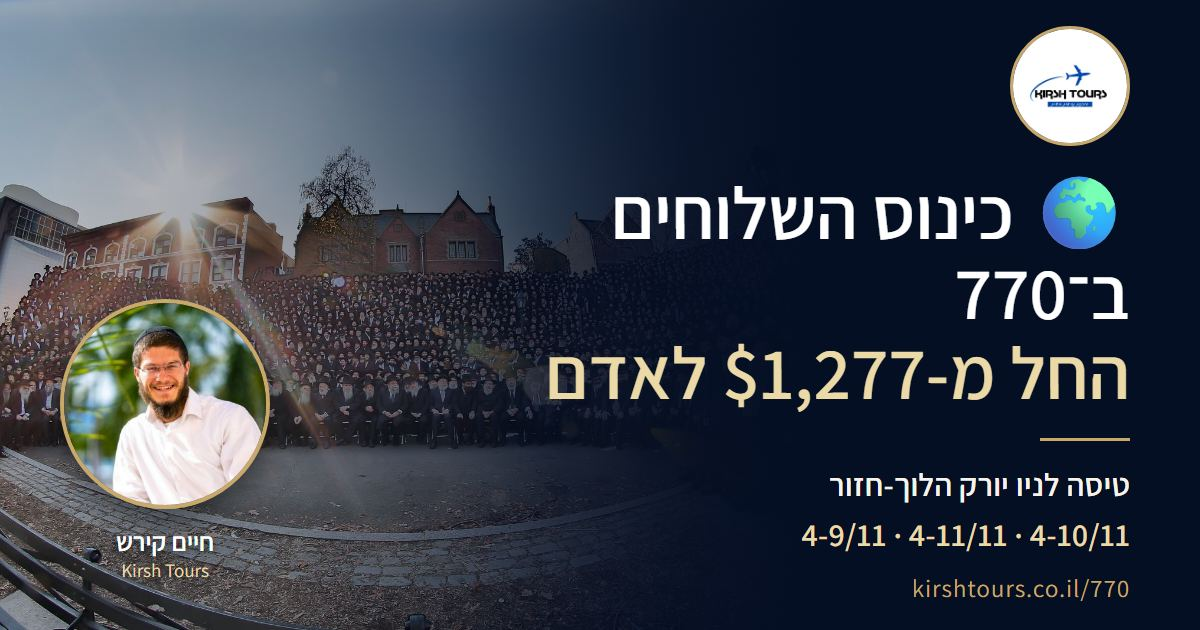
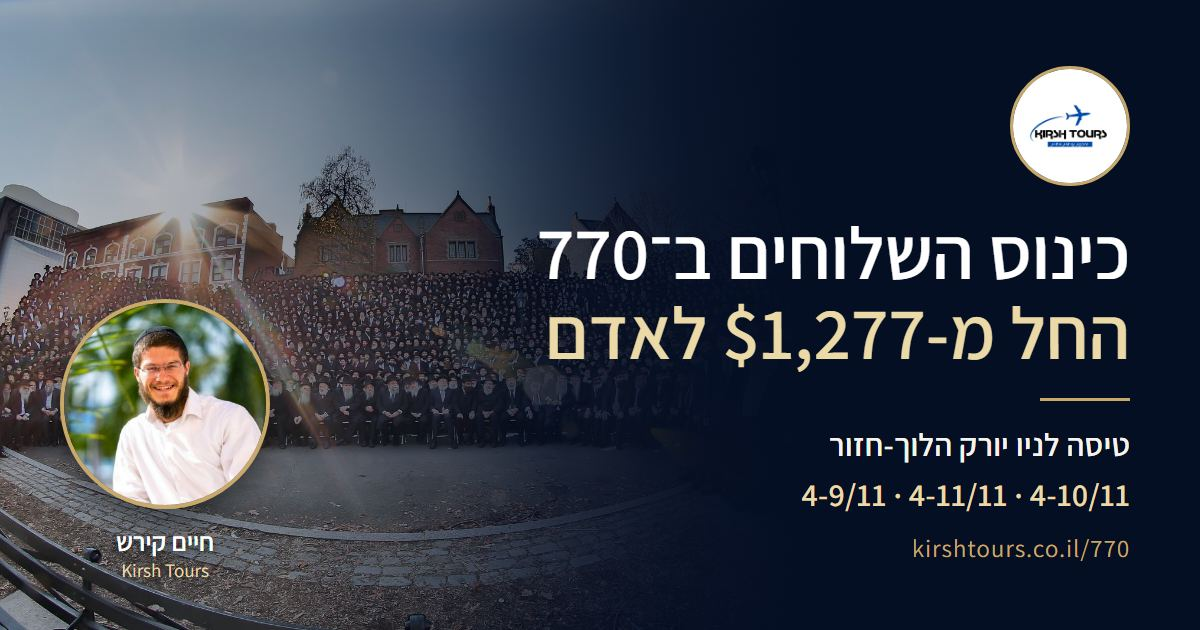
דילים 2026-11-01

Changed region(s): [[0.4317, 0.0302, 0.9558, 0.6635], [0.6475, 0.754, 0.9558, 0.9651], [0.6783, 0.6937, 0.9558, 0.7238]]

diff --git a/770/purim/index.html b/770/purim/index.html
@@ -76,7 +76,7 @@
       <li data-reveal>צריכים ESTA? <a href="https://wa.me/972553093983?text=%D7%94%D7%99%D7%99%20%D7%97%D7%99%D7%99%D7%9D%2C%20%D7%90%D7%A0%D7%99%20%D7%A6%D7%A8%D7%99%D7%9A%20ESTA%20%D7%9C%D7%98%D7%99%D7%A1%D7%94%20%D7%9C%D7%90%D7%A8%D7%94%22%D7%91">אני מסדר ב-150 ₪ לנוסע</a>, לא כולל האגרה של ארה"ב</li>
     </ul></div>
     <figure class="poster770" data-reveal><img src="../../770/img/purim.jpg" alt="פורים ב-770 - הדיל" loading="lazy"></figure>
-    <div class="block"><div class="kicker" data-reveal><b>02</b> עוד מועדים</div><ul class="more770"><li data-reveal><a href="../kinus/">🌍 כינוס השלוחים ב־770<span>החל מ-$1,277</span></a></li><li data-reveal><a href="../yud-tes-kislev/">📜 י״ט כסלו ב־770<span>$855</span></a></li><li data-reveal><a href="../hanukkah/"><svg class="menorah" viewBox="0 0 64 64" width="1em" height="1em" aria-hidden="true" xmlns="http://www.w3.org/2000/svg"><g fill="none" stroke="currentColor" stroke-width="3.4" stroke-linecap="round"><path d="M32 13V52M6 19 32 44M13 19 32 37M20 19 32 30M27 19 32 24M58 19 32 44M51 19 32 37M44 19 32 30M37 19 32 24"/><path d="M20 57H44M26 52H38"/></g><path stroke="currentColor" stroke-width="3.4" d="M3.5 19H8.5M10.5 19H15.5M17.5 19H22.5M24.5 19H29.5M34.5 19H39.5M41.5 19H46.5M48.5 19H53.5M55.5 19H60.5M29.5 13H34.5"/><g fill="#f5b400"><path d="M6 10c2 2.5 2 5 0 6.5-2-1.5-2-4 0-6.5zM13 10c2 2.5 2 5 0 6.5-2-1.5-2-4 0-6.5zM20 10c2 2.5 2 5 0 6.5-2-1.5-2-4 0-6.5zM27 10c2 2.5 2 5 0 6.5-2-1.5-2-4 0-6.5zM37 10c2 2.5 2 5 0 6.5-2-1.5-2-4 0-6.5zM44 10c2 2.5 2 5 0 6.5-2-1.5-2-4 0-6.5zM51 10c2 2.5 2 5 0 6.5-2-1.5-2-4 0-6.5zM58 10c2 2.5 2 5 0 6.5-2-1.5-2-4 0-6.5zM32 3c2 2.5 2 5 0 6.5-2-1.5-2-4 0-6.5z"/></g></svg> חנוכה ב־770<span>החל מ-$820</span></a></li><li data-reveal><a href="../yud-shvat/">📜 י׳ שבט ב־770<span>החל מ-$1,021</span></a></li></ul></div>
+    <div class="block"><div class="kicker" data-reveal><b>02</b> עוד מועדים</div><ul class="more770"><li data-reveal><a href="../kinus/"> כינוס השלוחים ב־770<span>החל מ-$1,277</span></a></li><li data-reveal><a href="../yud-tes-kislev/">📜 י״ט כסלו ב־770<span>$855</span></a></li><li data-reveal><a href="../hanukkah/"><svg class="menorah" viewBox="0 0 64 64" width="1em" height="1em" aria-hidden="true" xmlns="http://www.w3.org/2000/svg"><g fill="none" stroke="currentColor" stroke-width="3.4" stroke-linecap="round"><path d="M32 13V52M6 19 32 44M13 19 32 37M20 19 32 30M27 19 32 24M58 19 32 44M51 19 32 37M44 19 32 30M37 19 32 24"/><path d="M20 57H44M26 52H38"/></g><path stroke="currentColor" stroke-width="3.4" d="M3.5 19H8.5M10.5 19H15.5M17.5 19H22.5M24.5 19H29.5M34.5 19H39.5M41.5 19H46.5M48.5 19H53.5M55.5 19H60.5M29.5 13H34.5"/><g fill="#f5b400"><path d="M6 10c2 2.5 2 5 0 6.5-2-1.5-2-4 0-6.5zM13 10c2 2.5 2 5 0 6.5-2-1.5-2-4 0-6.5zM20 10c2 2.5 2 5 0 6.5-2-1.5-2-4 0-6.5zM27 10c2 2.5 2 5 0 6.5-2-1.5-2-4 0-6.5zM37 10c2 2.5 2 5 0 6.5-2-1.5-2-4 0-6.5zM44 10c2 2.5 2 5 0 6.5-2-1.5-2-4 0-6.5zM51 10c2 2.5 2 5 0 6.5-2-1.5-2-4 0-6.5zM58 10c2 2.5 2 5 0 6.5-2-1.5-2-4 0-6.5zM32 3c2 2.5 2 5 0 6.5-2-1.5-2-4 0-6.5z"/></g></svg> חנוכה ב־770<span>החל מ-$820</span></a></li><li data-reveal><a href="../yud-shvat/">📜 י׳ שבט ב־770<span>החל מ-$1,021</span></a></li></ul></div>
     <p class="fine">Kirsh Tours · סוכנות נסיעות אישית. פורסם ב-1.11. המחיר נכון לרגע הפרסום ובכפוף לזמינות · ט.ל.ח</p>
   </div>
   <aside class="side" data-reveal style="--d:.2s"><div class="book">

diff --git a/770/yud-tes-kislev/index.html b/770/yud-tes-kislev/index.html
@@ -76,7 +76,7 @@
       <li data-reveal>צריכים ESTA? <a href="https://wa.me/972553093983?text=%D7%94%D7%99%D7%99%20%D7%97%D7%99%D7%99%D7%9D%2C%20%D7%90%D7%A0%D7%99%20%D7%A6%D7%A8%D7%99%D7%9A%20ESTA%20%D7%9C%D7%98%D7%99%D7%A1%D7%94%20%D7%9C%D7%90%D7%A8%D7%94%22%D7%91">אני מסדר ב-150 ₪ לנוסע</a>, לא כולל האגרה של ארה"ב</li>
     </ul></div>
     <figure class="poster770" data-reveal><img src="../../770/img/yud-tes-kislev.jpg" alt="י״ט כסלו ב-770 - הדיל" loading="lazy"></figure>
-    <div class="block"><div class="kicker" data-reveal><b>02</b> עוד מועדים</div><ul class="more770"><li data-reveal><a href="../kinus/">🌍 כינוס השלוחים ב־770<span>החל מ-$1,277</span></a></li><li data-reveal><a href="../hanukkah/"><svg class="menorah" viewBox="0 0 64 64" width="1em" height="1em" aria-hidden="true" xmlns="http://www.w3.org/2000/svg"><g fill="none" stroke="currentColor" stroke-width="3.4" stroke-linecap="round"><path d="M32 13V52M6 19 32 44M13 19 32 37M20 19 32 30M27 19 32 24M58 19 32 44M51 19 32 37M44 19 32 30M37 19 32 24"/><path d="M20 57H44M26 52H38"/></g><path stroke="currentColor" stroke-width="3.4" d="M3.5 19H8.5M10.5 19H15.5M17.5 19H22.5M24.5 19H29.5M34.5 19H39.5M41.5 19H46.5M48.5 19H53.5M55.5 19H60.5M29.5 13H34.5"/><g fill="#f5b400"><path d="M6 10c2 2.5 2 5 0 6.5-2-1.5-2-4 0-6.5zM13 10c2 2.5 2 5 0 6.5-2-1.5-2-4 0-6.5zM20 10c2 2.5 2 5 0 6.5-2-1.5-2-4 0-6.5zM27 10c2 2.5 2 5 0 6.5-2-1.5-2-4 0-6.5zM37 10c2 2.5 2 5 0 6.5-2-1.5-2-4 0-6.5zM44 10c2 2.5 2 5 0 6.5-2-1.5-2-4 0-6.5zM51 10c2 2.5 2 5 0 6.5-2-1.5-2-4 0-6.5zM58 10c2 2.5 2 5 0 6.5-2-1.5-2-4 0-6.5zM32 3c2 2.5 2 5 0 6.5-2-1.5-2-4 0-6.5z"/></g></svg> חנוכה ב־770<span>החל מ-$820</span></a></li><li data-reveal><a href="../yud-shvat/">📜 י׳ שבט ב־770<span>החל מ-$1,021</span></a></li><li data-reveal><a href="../purim/">🎭 פורים ב־770<span>$859</span></a></li></ul></div>
+    <div class="block"><div class="kicker" data-reveal><b>02</b> עוד מועדים</div><ul class="more770"><li data-reveal><a href="../kinus/"> כינוס השלוחים ב־770<span>החל מ-$1,277</span></a></li><li data-reveal><a href="../hanukkah/"><svg class="menorah" viewBox="0 0 64 64" width="1em" height="1em" aria-hidden="true" xmlns="http://www.w3.org/2000/svg"><g fill="none" stroke="currentColor" stroke-width="3.4" stroke-linecap="round"><path d="M32 13V52M6 19 32 44M13 19 32 37M20 19 32 30M27 19 32 24M58 19 32 44M51 19 32 37M44 19 32 30M37 19 32 24"/><path d="M20 57H44M26 52H38"/></g><path stroke="currentColor" stroke-width="3.4" d="M3.5 19H8.5M10.5 19H15.5M17.5 19H22.5M24.5 19H29.5M34.5 19H39.5M41.5 19H46.5M48.5 19H53.5M55.5 19H60.5M29.5 13H34.5"/><g fill="#f5b400"><path d="M6 10c2 2.5 2 5 0 6.5-2-1.5-2-4 0-6.5zM13 10c2 2.5 2 5 0 6.5-2-1.5-2-4 0-6.5zM20 10c2 2.5 2 5 0 6.5-2-1.5-2-4 0-6.5zM27 10c2 2.5 2 5 0 6.5-2-1.5-2-4 0-6.5zM37 10c2 2.5 2 5 0 6.5-2-1.5-2-4 0-6.5zM44 10c2 2.5 2 5 0 6.5-2-1.5-2-4 0-6.5zM51 10c2 2.5 2 5 0 6.5-2-1.5-2-4 0-6.5zM58 10c2 2.5 2 5 0 6.5-2-1.5-2-4 0-6.5zM32 3c2 2.5 2 5 0 6.5-2-1.5-2-4 0-6.5z"/></g></svg> חנוכה ב־770<span>החל מ-$820</span></a></li><li data-reveal><a href="../yud-shvat/">📜 י׳ שבט ב־770<span>החל מ-$1,021</span></a></li><li data-reveal><a href="../purim/">🎭 פורים ב־770<span>$859</span></a></li></ul></div>
     <p class="fine">Kirsh Tours · סוכנות נסיעות אישית. פורסם ב-1.11. המחיר נכון לרגע הפרסום ובכפוף לזמינות · ט.ל.ח</p>
   </div>
   <aside class="side" data-reveal style="--d:.2s"><div class="book">

diff --git a/770/yud-shvat/index.html b/770/yud-shvat/index.html
@@ -76,7 +76,7 @@
       <li data-reveal>צריכים ESTA? <a href="https://wa.me/972553093983?text=%D7%94%D7%99%D7%99%20%D7%97%D7%99%D7%99%D7%9D%2C%20%D7%90%D7%A0%D7%99%20%D7%A6%D7%A8%D7%99%D7%9A%20ESTA%20%D7%9C%D7%98%D7%99%D7%A1%D7%94%20%D7%9C%D7%90%D7%A8%D7%94%22%D7%91">אני מסדר ב-150 ₪ לנוסע</a>, לא כולל האגרה של ארה"ב</li>
     </ul></div>
     <figure class="poster770" data-reveal><img src="../../770/img/yud-shvat.jpg" alt="י׳ שבט ב-770 - הדיל" loading="lazy"></figure>
-    <div class="block"><div class="kicker" data-reveal><b>02</b> עוד מועדים</div><ul class="more770"><li data-reveal><a href="../kinus/">🌍 כינוס השלוחים ב־770<span>החל מ-$1,277</span></a></li><li data-reveal><a href="../yud-tes-kislev/">📜 י״ט כסלו ב־770<span>$855</span></a></li><li data-reveal><a href="../hanukkah/"><svg class="menorah" viewBox="0 0 64 64" width="1em" height="1em" aria-hidden="true" xmlns="http://www.w3.org/2000/svg"><g fill="none" stroke="currentColor" stroke-width="3.4" stroke-linecap="round"><path d="M32 13V52M6 19 32 44M13 19 32 37M20 19 32 30M27 19 32 24M58 19 32 44M51 19 32 37M44 19 32 30M37 19 32 24"/><path d="M20 57H44M26 52H38"/></g><path stroke="currentColor" stroke-width="3.4" d="M3.5 19H8.5M10.5 19H15.5M17.5 19H22.5M24.5 19H29.5M34.5 19H39.5M41.5 19H46.5M48.5 19H53.5M55.5 19H60.5M29.5 13H34.5"/><g fill="#f5b400"><path d="M6 10c2 2.5 2 5 0 6.5-2-1.5-2-4 0-6.5zM13 10c2 2.5 2 5 0 6.5-2-1.5-2-4 0-6.5zM20 10c2 2.5 2 5 0 6.5-2-1.5-2-4 0-6.5zM27 10c2 2.5 2 5 0 6.5-2-1.5-2-4 0-6.5zM37 10c2 2.5 2 5 0 6.5-2-1.5-2-4 0-6.5zM44 10c2 2.5 2 5 0 6.5-2-1.5-2-4 0-6.5zM51 10c2 2.5 2 5 0 6.5-2-1.5-2-4 0-6.5zM58 10c2 2.5 2 5 0 6.5-2-1.5-2-4 0-6.5zM32 3c2 2.5 2 5 0 6.5-2-1.5-2-4 0-6.5z"/></g></svg> חנוכה ב־770<span>החל מ-$820</span></a></li><li data-reveal><a href="../purim/">🎭 פורים ב־770<span>$859</span></a></li></ul></div>
+    <div class="block"><div class="kicker" data-reveal><b>02</b> עוד מועדים</div><ul class="more770"><li data-reveal><a href="../kinus/"> כינוס השלוחים ב־770<span>החל מ-$1,277</span></a></li><li data-reveal><a href="../yud-tes-kislev/">📜 י״ט כסלו ב־770<span>$855</span></a></li><li data-reveal><a href="../hanukkah/"><svg class="menorah" viewBox="0 0 64 64" width="1em" height="1em" aria-hidden="true" xmlns="http://www.w3.org/2000/svg"><g fill="none" stroke="currentColor" stroke-width="3.4" stroke-linecap="round"><path d="M32 13V52M6 19 32 44M13 19 32 37M20 19 32 30M27 19 32 24M58 19 32 44M51 19 32 37M44 19 32 30M37 19 32 24"/><path d="M20 57H44M26 52H38"/></g><path stroke="currentColor" stroke-width="3.4" d="M3.5 19H8.5M10.5 19H15.5M17.5 19H22.5M24.5 19H29.5M34.5 19H39.5M41.5 19H46.5M48.5 19H53.5M55.5 19H60.5M29.5 13H34.5"/><g fill="#f5b400"><path d="M6 10c2 2.5 2 5 0 6.5-2-1.5-2-4 0-6.5zM13 10c2 2.5 2 5 0 6.5-2-1.5-2-4 0-6.5zM20 10c2 2.5 2 5 0 6.5-2-1.5-2-4 0-6.5zM27 10c2 2.5 2 5 0 6.5-2-1.5-2-4 0-6.5zM37 10c2 2.5 2 5 0 6.5-2-1.5-2-4 0-6.5zM44 10c2 2.5 2 5 0 6.5-2-1.5-2-4 0-6.5zM51 10c2 2.5 2 5 0 6.5-2-1.5-2-4 0-6.5zM58 10c2 2.5 2 5 0 6.5-2-1.5-2-4 0-6.5zM32 3c2 2.5 2 5 0 6.5-2-1.5-2-4 0-6.5z"/></g></svg> חנוכה ב־770<span>החל מ-$820</span></a></li><li data-reveal><a href="../purim/">🎭 פורים ב־770<span>$859</span></a></li></ul></div>
     <p class="fine">Kirsh Tours · סוכנות נסיעות אישית. פורסם ב-1.11. המחיר נכון לרגע הפרסום ובכפוף לזמינות · ט.ל.ח</p>
   </div>
   <aside class="side" data-reveal style="--d:.2s"><div class="book">

diff --git a/770/kinus/index.html b/770/kinus/index.html
@@ -14,7 +14,7 @@
 <link rel="canonical" href="https://kirshtours.co.il/770/kinus/">
 
 
-<meta property="og:image" content="https://kirshtours.co.il/770/img/og-kinus.jpg?v=690d5def"><meta property="og:image:width" content="1200"><meta property="og:image:height" content="630">
+<meta property="og:image" content="https://kirshtours.co.il/770/img/og-kinus.jpg?v=4e1754a1"><meta property="og:image:width" content="1200"><meta property="og:image:height" content="630">
 <meta name="theme-color" content="#050f24">
 <link rel="icon" href="../../logo.jpg">
 <link rel="stylesheet" href="../../vendor/fonts.css">
@@ -41,7 +41,7 @@
   <div class="slides" aria-hidden="true"><img src="../../770/img/hero/moed/kinus.jpg" srcset="../../770/img/hero/moed/s-kinus.jpg 800w, ../../770/img/hero/moed/kinus.jpg 1600w" sizes="100vw" alt="" class="on" fetchpriority="high"><img data-src="../../770/img/hero/1.jpg" data-srcset="../../770/img/hero/s-1.jpg 800w, ../../770/img/hero/1.jpg 1600w" sizes="100vw" alt=""><img data-src="../../770/img/hero/2.jpg" data-srcset="../../770/img/hero/s-2.jpg 800w, ../../770/img/hero/2.jpg 1600w" sizes="100vw" alt=""><img data-src="../../770/img/hero/3.jpg" data-srcset="../../770/img/hero/s-3.jpg 800w, ../../770/img/hero/3.jpg 1600w" sizes="100vw" alt=""><img data-src="../../770/img/hero/4.jpg" data-srcset="../../770/img/hero/s-4.jpg 800w, ../../770/img/hero/4.jpg 1600w" sizes="100vw" alt=""><img data-src="../../770/img/hero/5.jpg" data-srcset="../../770/img/hero/s-5.jpg 800w, ../../770/img/hero/5.jpg 1600w" sizes="100vw" alt=""></div>
   <div class="wrap">
     <div class="crumbs" data-reveal><a href="../../770/">טיסות ל-770</a> &nbsp;/&nbsp; כינוס השלוחים</div>
-    <h1 data-reveal style="--d:.1s"><i aria-hidden="true">🌍</i> כינוס השלוחים ב־770<small>הכינוס העולמי של השלוחים ב־770</small></h1>
+    <h1 data-reveal style="--d:.1s"><i aria-hidden="true"></i> כינוס השלוחים ב־770<small>הכינוס העולמי של השלוחים ב־770</small></h1>
   </div>
 </section>
 <div class="wrap deal-layout">

diff --git a/770/hanukkah/index.html b/770/hanukkah/index.html
@@ -97,7 +97,7 @@
       <li data-reveal>צריכים ESTA? <a href="https://wa.me/972553093983?text=%D7%94%D7%99%D7%99%20%D7%97%D7%99%D7%99%D7%9D%2C%20%D7%90%D7%A0%D7%99%20%D7%A6%D7%A8%D7%99%D7%9A%20ESTA%20%D7%9C%D7%98%D7%99%D7%A1%D7%94%20%D7%9C%D7%90%D7%A8%D7%94%22%D7%91">אני מסדר ב-150 ₪ לנוסע</a>, לא כולל האגרה של ארה"ב</li>
     </ul></div>
     <figure class="poster770" data-reveal><img src="../../770/img/hanukkah.jpg" alt="חנוכה ב-770 - הדיל" loading="lazy"></figure>
-    <div class="block"><div class="kicker" data-reveal><b>02</b> עוד מועדים</div><ul class="more770"><li data-reveal><a href="../kinus/">🌍 כינוס השלוחים ב־770<span>החל מ-$1,277</span></a></li><li data-reveal><a href="../yud-tes-kislev/">📜 י״ט כסלו ב־770<span>$855</span></a></li><li data-reveal><a href="../yud-shvat/">📜 י׳ שבט ב־770<span>החל מ-$1,021</span></a></li><li data-reveal><a href="../purim/">🎭 פורים ב־770<span>$859</span></a></li></ul></div>
+    <div class="block"><div class="kicker" data-reveal><b>02</b> עוד מועדים</div><ul class="more770"><li data-reveal><a href="../kinus/"> כינוס השלוחים ב־770<span>החל מ-$1,277</span></a></li><li data-reveal><a href="../yud-tes-kislev/">📜 י״ט כסלו ב־770<span>$855</span></a></li><li data-reveal><a href="../yud-shvat/">📜 י׳ שבט ב־770<span>החל מ-$1,021</span></a></li><li data-reveal><a href="../purim/">🎭 פורים ב־770<span>$859</span></a></li></ul></div>
     <p class="fine">Kirsh Tours · סוכנות נסיעות אישית. פורסם ב-1.11. המחיר נכון לרגע הפרסום ובכפוף לזמינות · ט.ל.ח</p>
   </div>
   <aside class="side" data-reveal style="--d:.2s"><div class="book">

diff --git a/770/index.html b/770/index.html
@@ -49,7 +49,7 @@
   <div class="kicker" data-reveal><b>01</b> המועדים הקרובים</div>
   <h2 data-reveal>בוחרים מועד</h2>
   <div class="g770"><a class="e770" href="kinus/" data-exp="2026-11-03" data-reveal>
-    <div class="ev"><i aria-hidden="true">🌍</i>כינוס השלוחים ב־770</div>
+    <div class="ev"><i aria-hidden="true"></i>כינוס השלוחים ב־770</div>
     <p class="line">הכינוס העולמי של השלוחים ב־770</p>
     <div class="from">החל מ-<b>$1,277</b> לאדם הלוך-חזור</div>
     <ul><li data-exp="2026-11-03"><span>4-10/11 · רביעי–שלישי<small>דלתא · ישירה</small></span><b>$1,277</b></li><li data-exp="2026-11-03"><span>4-11/11 · רביעי–רביעי<small>יונייטד · ישירה</small></span><b>$1,319</b></li><li data-exp="2026-11-03"><span>4-9/11 · רביעי–שני<small>דלתא · ישירה</small></span><b>$1,342</b></li></ul>
